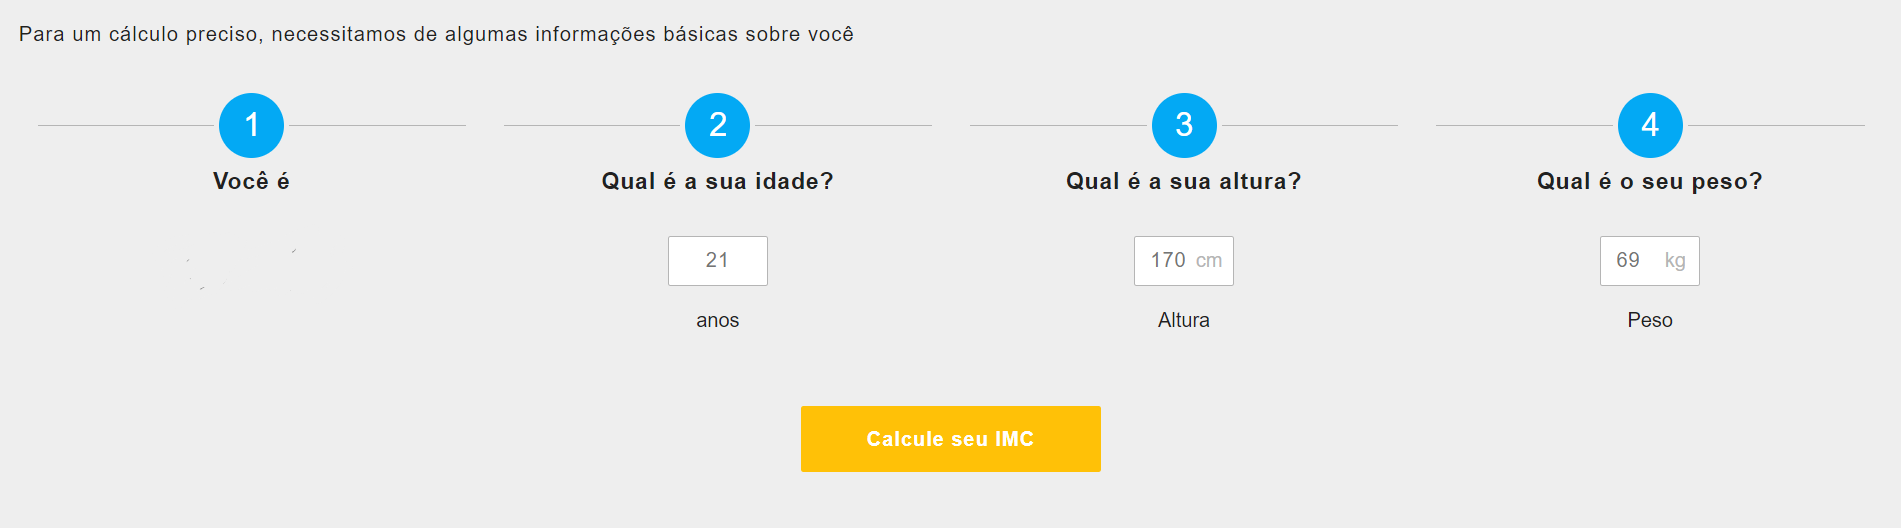
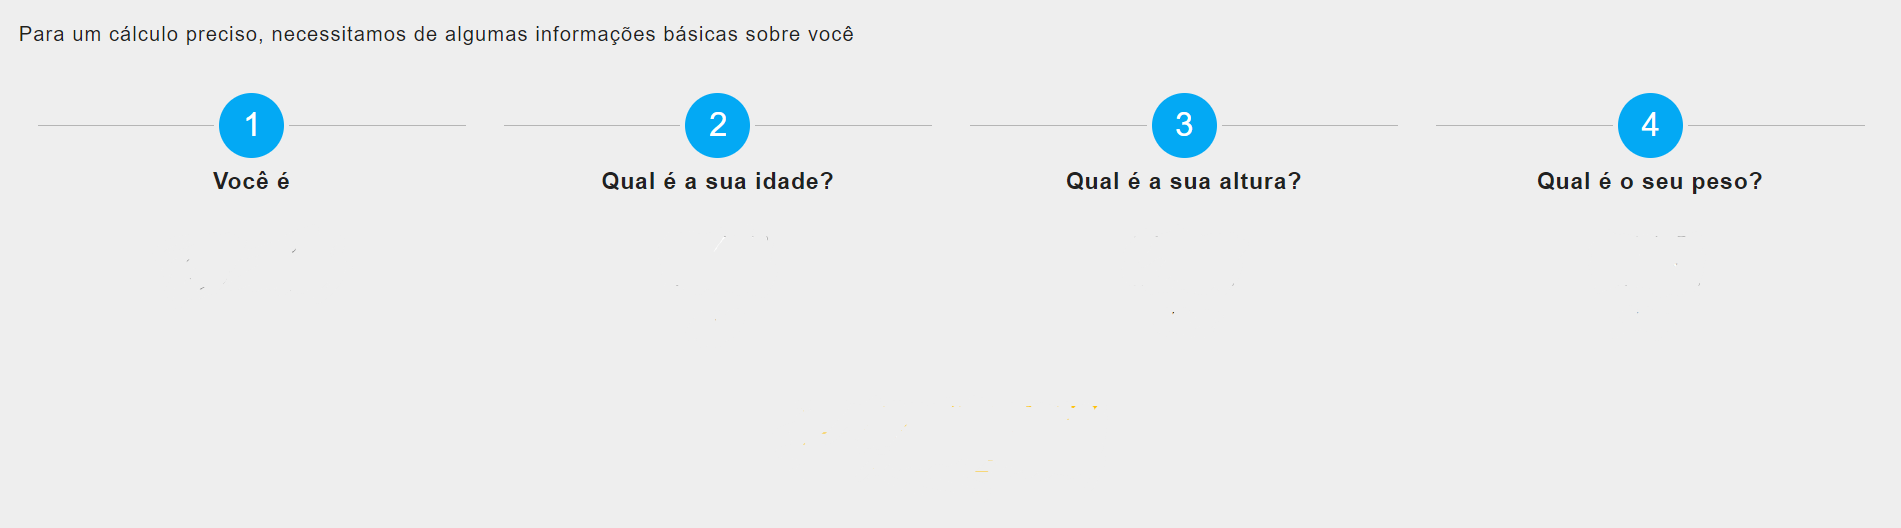
responsividade dos textos

diff --git a/imc.html b/imc.html
@@ -32,8 +32,8 @@
     -->
     <div id="divIMC">
         <img id="imgIMC" src="images/img_imc.png"/>
-        <button id="btnIMC" onclick="Calcular()">Calcule seu IMC</button>
-        <input id="idade" placeholder="21" type='text' size='10' value='' onkeypress='return SomenteNumero(event)'>
+        <button id="btnIMC" onclick="Calcular()"><div>Calcule seu IMC</div></button>
+        <input id="idade" placeholder="21 anos" type='text' size='10' value='' onkeypress='return SomenteNumero(event)'>
         <input id="altura" placeholder="170 cm" type='text' size='10' value='' onkeypress='return SomenteNumero(event)'>
         <input id="peso" placeholder="69 kg" type='text' size='10' value='' onkeypress='return SomenteNumero(event)'>
         <!--onmouseout="this.src='/images/user.png';" onmouseover="this.src='images/boss.png';"-->

diff --git a/style.css b/style.css
@@ -11,9 +11,9 @@ li, p {
 }
 
 p {
-    margin-bottom: 0 
+    margin-bottom: 0 ;
+    
  }
-   
 p {
     text-indent: 1.5em;
     margin-top: 0 
@@ -213,4 +213,12 @@ input {
 .acima{
     background-color:#d12b2b;
     color: white;
+}
+div,button{
+    font-size: 1.5vw;
+	margin: 0;
+}
+#Title,img{
+    font-size: 5vw;
+	margin: 0;
 }

diff --git a/index.html b/index.html
@@ -21,8 +21,6 @@
     integrity="sha384-JZR6Spejh4U02d8jOt6vLEHfe/JQGiRRSQQxSfFWpi1MquVdAyjUar5+76PVCmYl"
     crossorigin="anonymous"></script>
 
-  <title>Home</title>
-
 </head>
 
 <body
